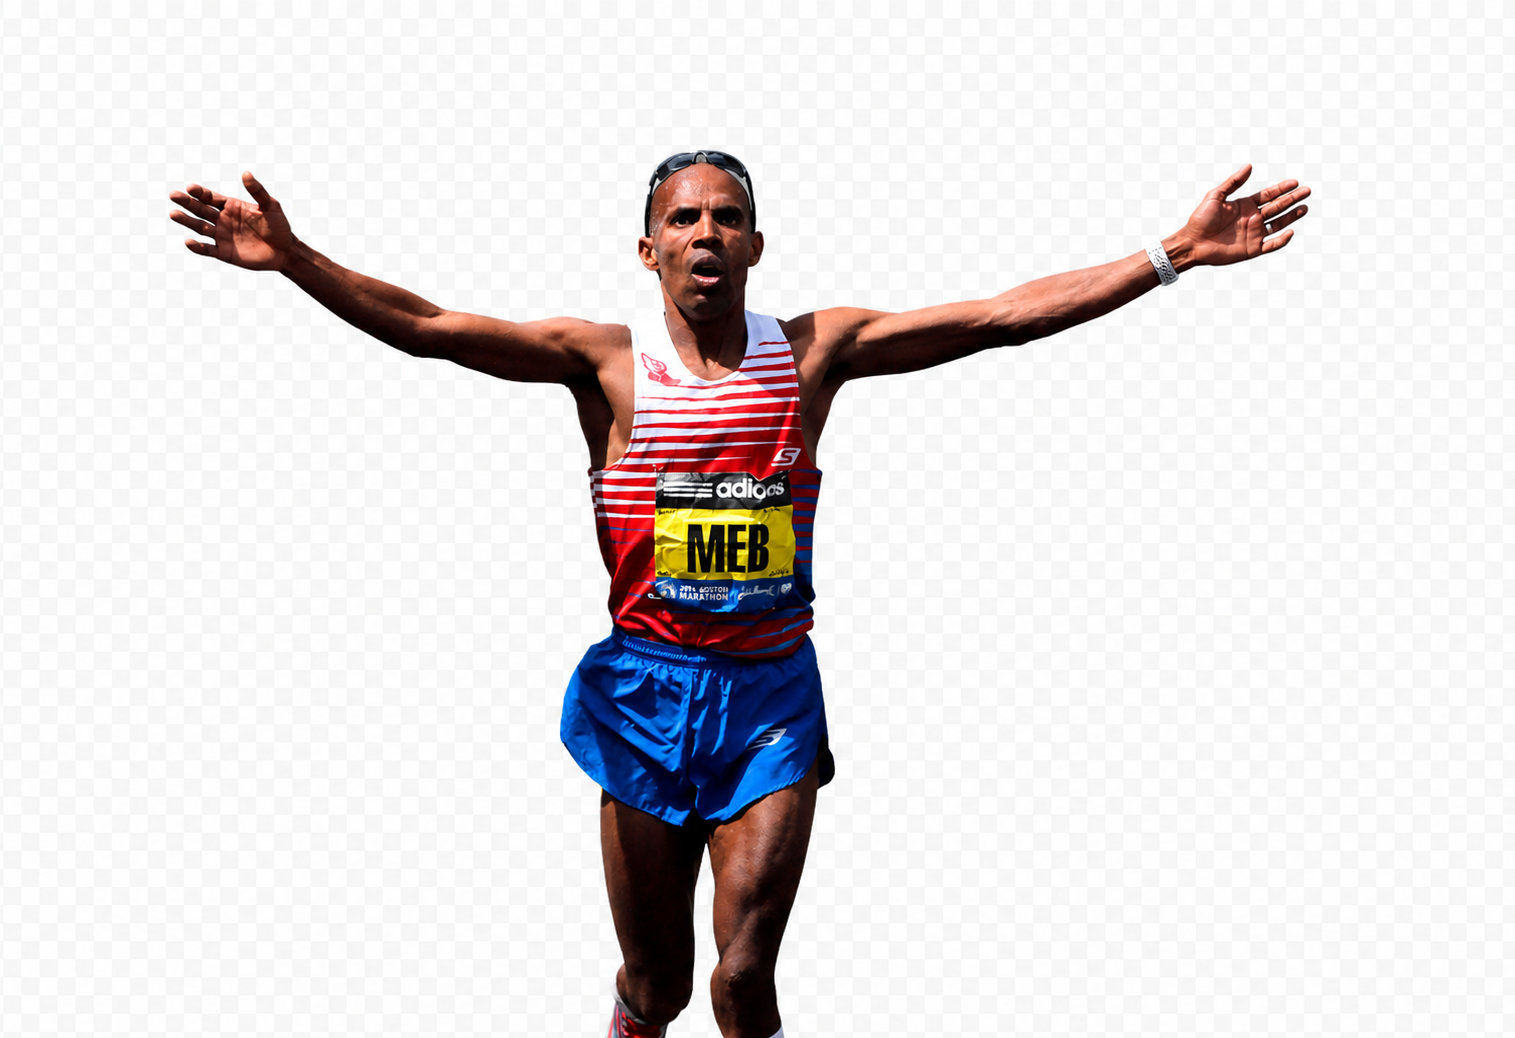
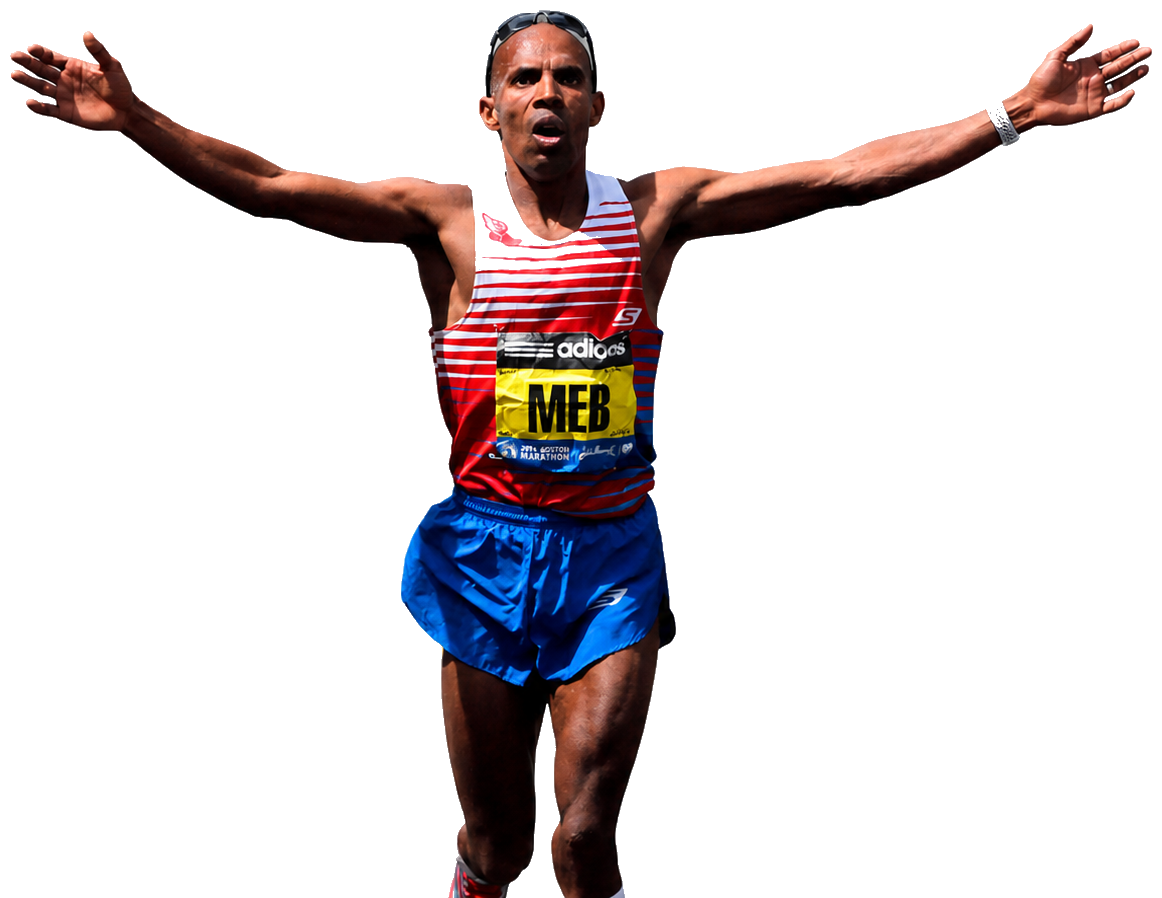
Fix Meb cutout: true transparency, trim, proportionally larger

Changed region(s): [[0.0, 0.0, 0.9914, 1.0]]

diff --git a/rundot/index.html b/rundot/index.html
@@ -188,7 +188,7 @@
     display: flex; align-items: flex-end; justify-content: center;
   }
   .hero-meb-img img {
-    width: 100%; max-width: 520px; height: auto;
+    width: 100%; max-width: 680px; height: auto;
     object-fit: contain; object-position: bottom center;
     filter: drop-shadow(0 4px 40px rgba(0,0,0,0.5));
   }
